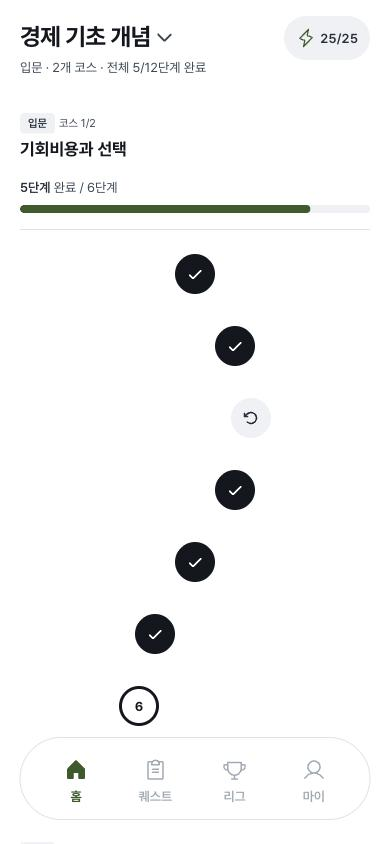
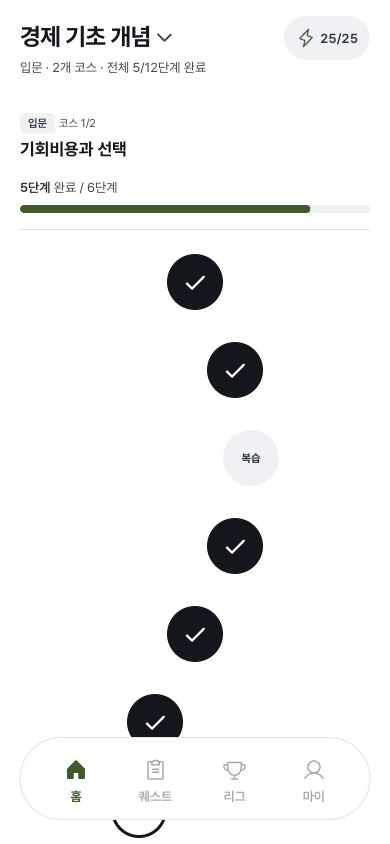
주제 화면 징검다리 돌 40px에서 56px로(체크 아이콘도 키움), 복습 돌은 화살표 아이콘 대신 '복습' 글자

diff --git a/src/index.css b/src/index.css
@@ -1128,12 +1128,12 @@ button.course-home-rail-card:active { background: var(--color-surface); }
 
 /* 주제 상세: 보라 챕터 카드와 원형 학습 단계 */
 .course-topic-summary { padding-inline: var(--space-5) !important; border-radius: var(--shape-card); background: var(--color-card) !important; }
-.course-step { grid-template-columns: 40px minmax(0, 1fr); }
+.course-step { grid-template-columns: 56px minmax(0, 1fr); }
 .course-step:not(:last-child)::before { top: 46px; left: 19px; width: 3px; border-radius: 2px; }
 /* 징검다리: 화면 가운데 줄을 기준으로 좌우로 곡선을 그리며 오가게 놓는다. 엇갈린 돌은 선으로 잇지 않는다.
    말풍선은 돌 바로 아래, 글자 길이만큼, 꼬리가 위로 돌을 가리킨다 */
 .course-steps .course-step::before { content: none !important; }
-.course-steps .course-step { --step-offset: 0px; padding-left: calc(50% - 20px + var(--step-offset)); }
+.course-steps .course-step { --step-offset: 0px; padding-left: calc(50% - 28px + var(--step-offset)); }
 /* 8칸 주기 사인 곡선(0 → 40 → 56 → 40 → 0 → -40 → -56 → -40px)으로 부드럽게 휜다 */
 .course-steps .course-step:nth-child(8n + 2), .course-steps .course-step:nth-child(8n + 4) { --step-offset: 40px; }
 .course-steps .course-step:nth-child(8n + 3) { --step-offset: 56px; }
@@ -1142,12 +1142,13 @@ button.course-home-rail-card:active { background: var(--color-surface); }
 /* 돌 사이 세로 간격(말풍선 높이 64px가 다음 돌과 겹치지 않을 만큼) */
 .course-steps .course-step + .course-step { margin-top: var(--space-6); }
 .course-step[data-step-state='done']:not(:last-child)::before { background: var(--color-progress); }
-.course-step-marker { width: 40px; height: 40px; margin-top: var(--space-2); border: 0; background: var(--color-neutral-soft); color: var(--color-ink-2); font-size: var(--font-size-label); }
+.course-step-marker { width: 56px; height: 56px; margin-top: var(--space-2); border: 0; background: var(--color-neutral-soft); color: var(--color-ink-2); font-size: var(--font-size-body); }
+.course-step-marker [data-review-mark] { font-size: var(--font-size-caption); font-weight: var(--font-weight-bold); }
 .course-step[data-step-state='done'] .course-step-marker { background: var(--color-neutral-strong); color: var(--color-card); }
 .course-step[data-step-state='current'] .course-step-marker { border: 3px solid var(--color-neutral-strong); background: var(--color-card); color: var(--color-neutral-strong); font-weight: var(--font-weight-bold); }
 .course-step[data-step-state='locked'] .course-step-marker { background: var(--color-surface); color: var(--color-ink-3); }
 /* 끝낸 단계 말풍선: 체크 오른쪽에 떠서 아래 줄을 밀지 않는다. 꼬리는 체크를 가리킨다 */
-.course-step-bubble { position: absolute; top: 60px; left: calc(50% + var(--step-offset, 0px)); z-index: 5; width: max-content; max-width: calc(100% - 8px); transform: translateX(-50%); }
+.course-step-bubble { position: absolute; top: 76px; left: calc(50% + var(--step-offset, 0px)); z-index: 5; width: max-content; max-width: calc(100% - 8px); transform: translateX(-50%); }
 /* 말풍선 면은 카드 하나만(테두리 두 겹 방지). 지금 할 단계는 기존처럼 옅은 세이지 면 */
 .course-step-bubble > button.course-node-card { border-color: var(--color-line) !important; background: var(--color-card) !important; }
 .course-step[data-step-state='current'] .course-step-bubble > button.course-node-card { background: var(--color-accent-soft) !important; }

diff --git a/src/pages/CourseScreen.tsx b/src/pages/CourseScreen.tsx
@@ -1,5 +1,5 @@
 import React, { useMemo, useRef, useLayoutEffect, useEffect, useState } from 'react';
-import { Check, LockKeyhole, RotateCcw } from '../components/ui/OtterIcons';
+import { Check, LockKeyhole } from '../components/ui/OtterIcons';
 import { BottomSheet, List, ListRow } from '@toss/tds-mobile';
 import { TopicThumb } from '../components/TopicThumb';
 import { COURSE_NAMES } from '../lib/topicImages';
@@ -539,7 +539,8 @@ const CourseScreen = () => {
               <div key={node.id} className="course-step" data-step-state={done ? 'done' : locked ? 'locked' : isFocus ? 'current' : 'open'}>
                 <button type="button" className="course-step-marker" data-step-kind={isReview ? 'review' : 'step'} aria-expanded={bubbleId === node.id}
                   aria-label={`${copy.kind} ${copy.title} ${nodeStatus}, ${bubbleId === node.id ? '닫기' : '보기'}`} onClick={() => setBubbleId(bubbleId === node.id ? null : node.id)}>
-                  {done && !isReview ? <Check size={16} aria-hidden="true" /> : isReview ? <RotateCcw size={16} aria-hidden="true" /> : stepNo}
+                  {/* 복습은 화살표 아이콘이 '복습'으로 읽히지 않아 글자로 표시한다 */}
+                  {done && !isReview ? <Check size={24} aria-hidden="true" /> : isReview ? <span aria-hidden="true" data-review-mark>복습</span> : stepNo}
                 </button>
                 <span className="course-step-bubble" data-step-bubble data-open={bubbleId === node.id}><button ref={isFocus ? focusRef : undefined} type="button" disabled={locked} data-own-sfx data-node-id={node.id}
                   onClick={() => handleNodeTap(node, k, sec.knownCount, courseName(sec.course))}

diff --git a/src/pages/CourseScreen.test.tsx b/src/pages/CourseScreen.test.tsx
@@ -546,8 +546,9 @@ describe('학습 주제의 역할 아이콘', () => {
     expect(container.querySelector('[data-review-badge]')).toHaveTextContent('· 선택');
     const markers = [...container.querySelectorAll('.course-step-marker')];
     const review = markers.find(m => m.getAttribute('data-step-kind') === 'review')!;
-    expect(review.textContent).toBe('');
-    expect(review.querySelector('[data-icon="RotateCcw"]')).toBeInTheDocument();
+    // 번호 없이 '복습' 글자만
+    expect(review.textContent).toBe('복습');
+    expect(review.querySelector('[data-review-mark]')).toHaveTextContent('복습');
   });
 
   it('길에는 돌만 두고, 지금 할 단계 말풍선만 열어 두며, 돌을 누르면 그 단계 말풍선으로 바꾼다', async () => {
